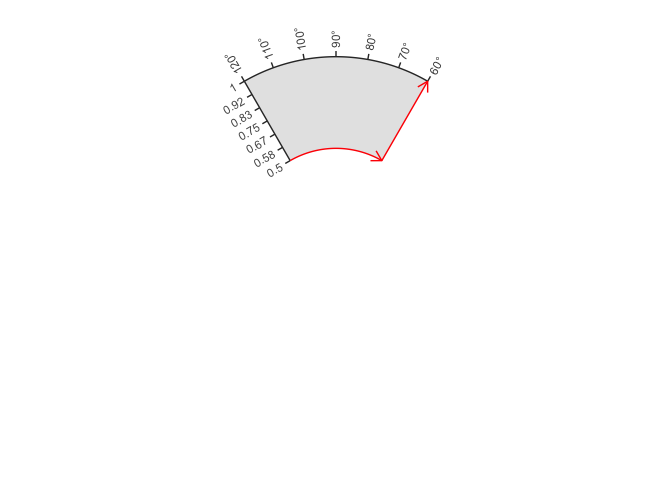
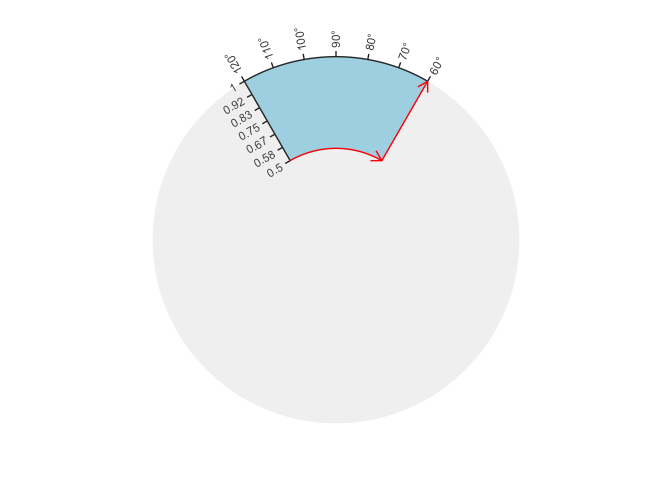
update readme

Changed region(s): [[0.3438, 0.0938, 0.6562, 0.3438]]

diff --git a/README.md b/README.md
@@ -104,6 +104,16 @@ show_cell(region2)
 
 <img src="man/figures/README-cell-2.png" width="100%" />
 
+``` r
+
+## combine
+show_cell(CELL(start = 120, end = 60, r0 = 0.5, r1 = 1),
+          CELL(start = 140, end = 40, r0 = 0.5, r1 = 1,
+               direct = "reverse.clockwise"))
+```
+
+<img src="man/figures/README-cell-3.png" width="100%" />
+
 ## Notes
 
 It is still in the phase of code testing and updating help
